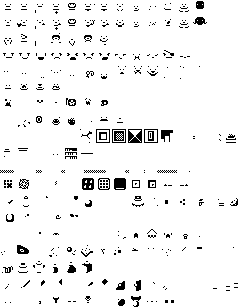
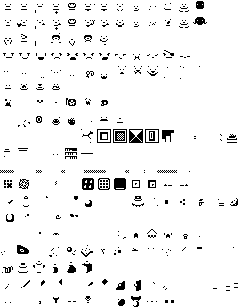
Add tinting for sprites

Changed region(s): [[0.3333, 0.4091, 0.6944, 0.4675], [0.8889, 0.4383, 0.9444, 0.4675]]

diff --git a/src/sprites.ts b/src/sprites.ts
@@ -3,6 +3,24 @@ import { sheet } from './assets/loader.js';
 
 
 /**
+ * Represents the Color we can tint the sprites we load.
+ */
+export enum Color {
+    White,
+    Gray
+}
+
+function hexColor(color: Color): number {
+    switch (color) {
+        case Color.White:
+            return 0xFFFFFF;
+        case Color.Gray:
+            return 0x81858E;
+    }
+}
+
+
+/**
  * Represents a sprite sheet containing different sprites
  * we can load.
  */
@@ -27,11 +45,12 @@ export class SpriteSheet {
      * @param x the x index of the sprite 
      * @param y the y index of the sprite
      */
-    indexSprite(x: number, y: number): PIXI.Sprite {
+    indexSprite(x: number, y: number, color=Color.White): PIXI.Sprite {
         const rect = new PIXI.Rectangle(16 * x, 16 * y, 16, 16);
         const texture = new PIXI.Texture(this._baseTexture, rect);
         const sprite = new PIXI.Sprite(texture);
         sprite.scale.set(2, 2);
+        sprite.tint = hexColor(color);
         return sprite;
     }
 }

diff --git a/src/game/Area.ts b/src/game/Area.ts
@@ -1,4 +1,4 @@
-import { SpriteSheet } from '../sprites';
+import { Color, SpriteSheet } from '../sprites';
 
 interface Tile {
     sprite: PIXI.Sprite | null,
@@ -50,9 +50,11 @@ class Area {
     constructor(sheet: SpriteSheet) {
         const positions = [{ x: 1, y: 1 }, { x: 2, y: 4 }];
         for (let { x, y } of positions) {
-            this._grid.setTile(x, y, sheet.indexSprite(0, 8), true);
+            const sprite = sheet.indexSprite(0, 8, Color.Gray);
+            this._grid.setTile(x, y, sprite, true);
         }
-        this._grid.setTile(10, 10, sheet.indexSprite(3, 15))
+        const sprite = sheet.indexSprite(3, 8, Color.Gray);
+        this._grid.setTile(10, 10, sprite);
     }
 
     addTo(stage: PIXI.Container) {
